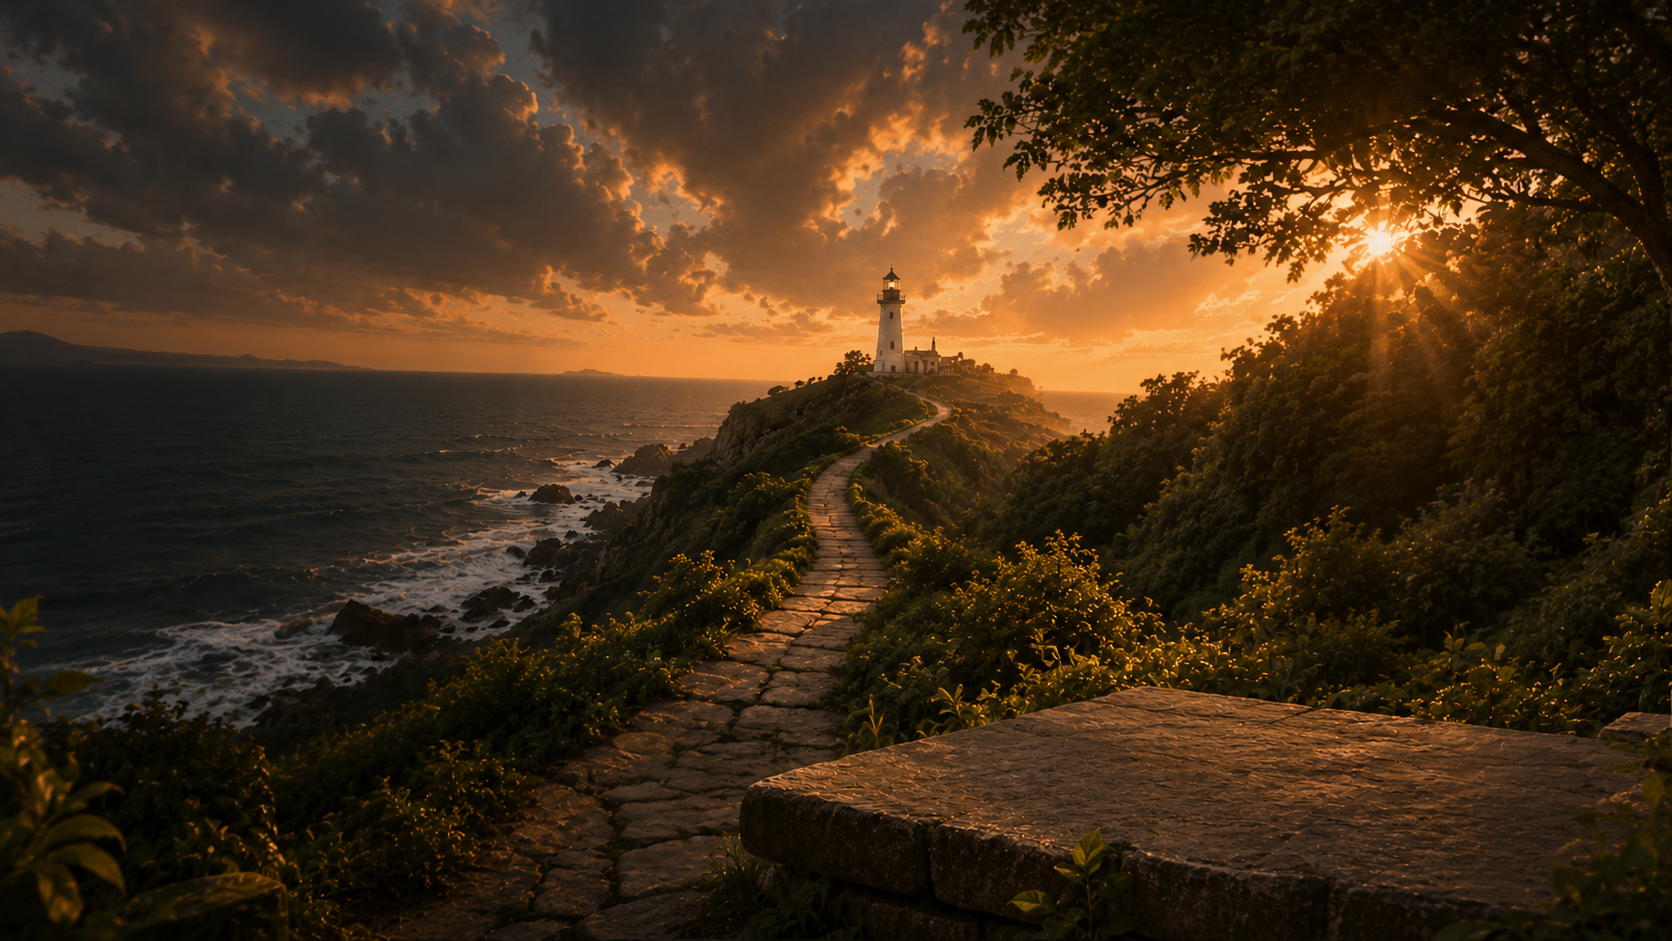
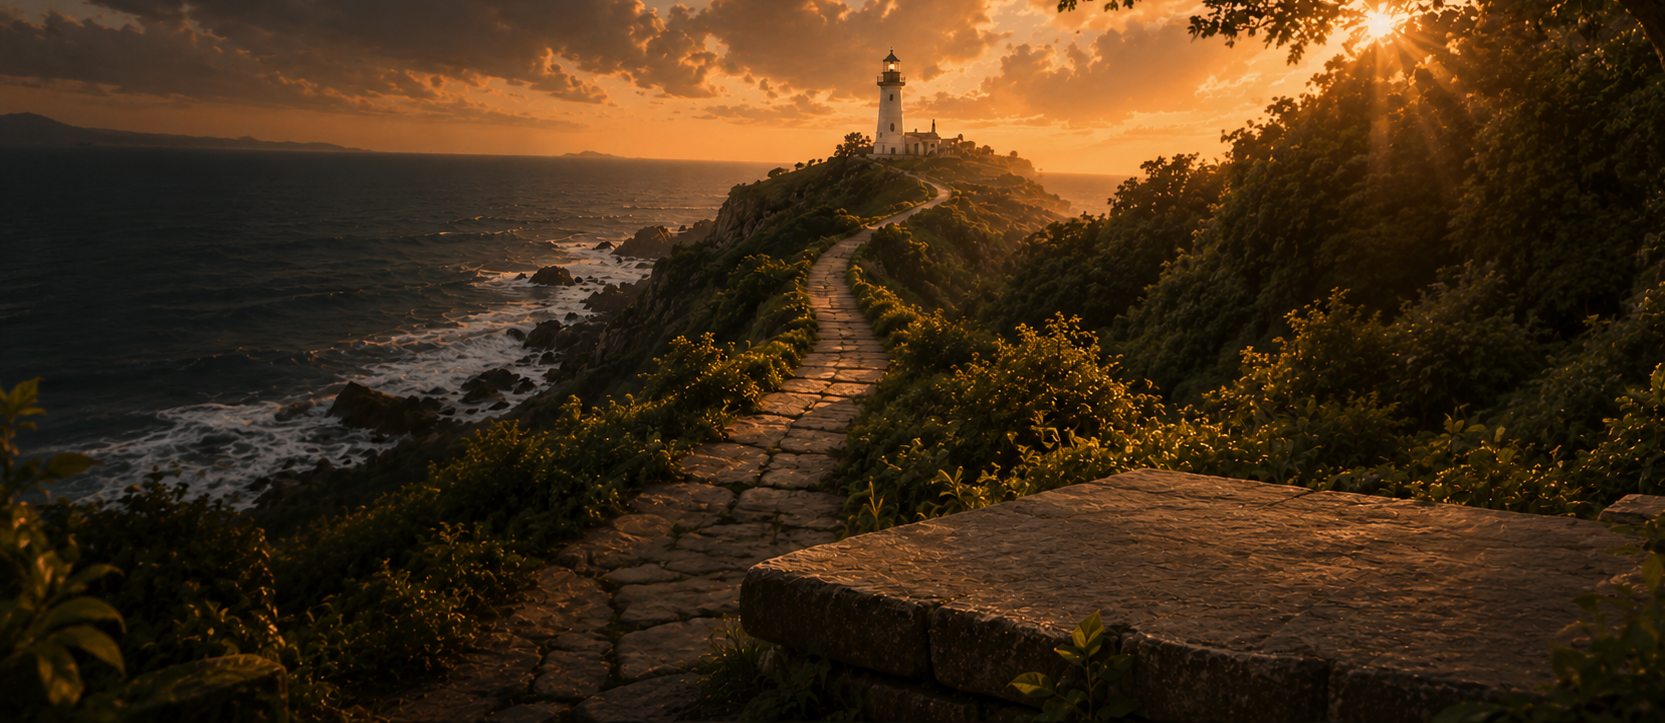
hello

diff --git a/src/components/Hero.tsx b/src/components/Hero.tsx
@@ -1,13 +1,15 @@
 import { motion, useScroll, useTransform } from 'motion/react';
-import { useRef } from 'react';
-import { ArrowRight, Shield, BookOpen, Feather, Award } from 'lucide-react';
+import React, { useRef, useState } from 'react';
+import { ArrowRight } from 'lucide-react';
 import { useTranslation } from 'react-i18next';
-import featuredImage from '../Pictures/ENGLISH/16279a37-5c09-457e-82f7-37995b9beb65.jpg';
-import backgroundImage from '../Pictures/new1.png';
+import { getBooks } from '../constants';
+import backgroundImage from '../Pictures/new.png';
 
 export default function Hero() {
-  const { t } = useTranslation();
+  const { t, i18n } = useTranslation();
+  const books = getBooks(i18n.language);
   const containerRef = useRef<HTMLDivElement>(null);
+  
   const { scrollYProgress } = useScroll({
     target: containerRef,
     offset: ["start start", "end start"]
@@ -15,15 +17,27 @@ export default function Hero() {
 
   const y1 = useTransform(scrollYProgress, [0, 1], [0, 300]);
   const y2 = useTransform(scrollYProgress, [0, 1], [0, -200]);
-  const y3 = useTransform(scrollYProgress, [0, 1], [0, 150]);
   const textY = useTransform(scrollYProgress, [0, 1], [0, 150]);
   const imgY = useTransform(scrollYProgress, [0, 1], [0, 50]);
-  const rotate = useTransform(scrollYProgress, [0, 1], [0, 20]);
   const opacity = useTransform(scrollYProgress, [0, 0.8], [1, 0]);
+
+  const [activeIndex, setActiveIndex] = useState(0);
+  const [mousePosition, setMousePosition] = useState({ x: 0, y: 0 });
+
+  const handleMouseMove = (e: React.MouseEvent) => {
+    if (!containerRef.current) return;
+    const rect = containerRef.current.getBoundingClientRect();
+    const x = (e.clientX - rect.left) / rect.width - 0.5;
+    const y = (e.clientY - rect.top) / rect.height - 0.5;
+    setMousePosition({ x, y });
+  };
+
+
 
   return (
     <section
       ref={containerRef}
+      onMouseMove={handleMouseMove}
       className="relative min-h-[90vh] flex items-center overflow-hidden bg-cream px-6 pt-20 pb-32 lg:px-20"
       style={{
         backgroundImage: `url(${backgroundImage})`,
@@ -42,15 +56,15 @@ export default function Hero() {
         className="absolute bottom-1/4 left-[5%] w-96 h-96 bg-espresso/5 rounded-full blur-3xl -z-10"
       />
 
-      <div className="grid lg:grid-cols-2 gap-12 items-center w-full max-w-7xl mx-auto">
+      <div className="grid lg:grid-cols-2 gap-12 items-center w-full max-w-7xl mx-auto z-10">
+        
+        {/* Left Side: Text and Buttons (Preserved) */}
         <motion.div
           initial={{ opacity: 0, x: -50 }}
           animate={{ opacity: 1, x: 0 }}
           transition={{ duration: 0.8, ease: "easeOut" }}
           style={{ opacity, y: textY }}
         >
-
-
           <h1 className="text-6xl lg:text-7xl font-display leading-[0.9] text-cream mb-8">
             {t('hero.titlePart1')} <br />
             <span className="italic font-light text-gold">{t('hero.titlePart2')}</span> <br />
@@ -76,9 +90,177 @@ export default function Hero() {
           </div>
         </motion.div>
 
+        {/* Right Side: 3D Book Carousel with "Stepping" Format */}
+        <motion.div 
+          className="relative h-[600px] flex items-center justify-center overflow-visible mt-[200px]"
+          style={{ y: imgY, opacity }}
+        >
+          {/* Carousel Wrapper with Perspective (Centered horizontally, High angle) */}
+          <div className="relative w-full h-full flex items-center justify-center" style={{ perspective: '1200px', perspectiveOrigin: '50% 10%', transformStyle: 'preserve-3d', transform: 'translateX(120px)' }}>
+            
+            {books.map((book, index) => {
+              // Calculate position in the cascade (0: Large, 1: Medium, 2: Small)
+              let pos = (index - activeIndex + books.length) % books.length;
+              
+              // Show 5 items in the cascade
+              const isVisible = pos < 5;
+              
+              if (!isVisible) return null;
+
+              // Values based on position to match the requested image format (decreasing size)
+              let xPos = 0;
+              let scale = 1;
+              let zPos = 0;
+              let rotateY = 0;
+              let yPos = 0;
+
+              // No baseOffset, use symmetric positions
+              // Adjusted positions for better spacing and realistic hierarchy
+              if (pos === 0) {
+                // Center book (smaller)
+                xPos = 0;
+                scale = 0.8; // smaller than side books
+                zPos = 100; // bring forward slightly
+                rotateY = 0;
+                yPos = 0;
+              } else if (pos === 1) {
+                // Right immediate side (larger)
+                xPos = 190; // adjusted spacing
+                scale = 1.0;
+                zPos = 20; // slightly behind center
+                rotateY = -20; // Rotate towards center
+                yPos = 0;
+              } else if (pos === 2) {
+                // Right far side (medium)
+                xPos = 380; // adjusted spacing
+                scale = 0.85;
+                zPos = -20;
+                rotateY = -30; // Rotate towards center
+                yPos = 0;
+              } else if (pos === 3) {
+                // Left far side (medium)
+                xPos = -380; // adjusted spacing
+                scale = 0.85;
+                zPos = -20;
+                rotateY = 30; // Rotate towards center
+                yPos = 0;
+              } else if (pos === 4) {
+                // Left immediate side (larger)
+                xPos = -190; // adjusted spacing
+                scale = 1.0;
+                zPos = 20;
+                rotateY = 20; // Rotate towards center
+                yPos = 0;
+              }
+
+              const isActive = pos === 0;
+
+              return (
+                <motion.div
+                  key={book.id}
+                  className="absolute"
+                  style={{
+                    width: '280px',
+                    height: '400px',
+                    transformStyle: 'preserve-3d',
+                    zIndex: 10 - pos, // Higher z-index for larger items on left
+                    originY: 1, // Scale from bottom to align bottoms!
+                  }}
+                  animate={{
+                    x: xPos,
+                    z: zPos,
+                    rotateY: rotateY,
+                    rotateX: 0,
+                    scale: scale,
+                    y: yPos,
+                  }}
+                  whileHover={{ scale: scale * 1.05 }}
+                  whileTap={{ scale: scale * 0.95 }}
+                  transition={{
+                    type: 'spring',
+                    stiffness: 120,
+                    damping: 20,
+                  }}
+                  onClick={() => setActiveIndex(index)}
+                >
+                  {/* Grounded Book Container (No floating) */}
+                  <div className="w-full h-full preserve-3d">
+                    <div className="relative w-full h-full preserve-3d group">
+                      
+                      {/* Front Cover (Pushed forward to show thickness) */}
+                      <div 
+                        className="absolute inset-0 w-full h-full rounded-r-md overflow-hidden bg-white shadow-2xl"
+                        style={{ 
+                          transform: 'translateZ(30px)', // 30px thickness
+                          boxShadow: isActive ? '0 30px 60px -12px rgba(0,0,0,0.4), 0 18px 36px -18px rgba(0,0,0,0.5)' : '0 15px 30px -5px rgba(0,0,0,0.3)',
+                        }}
+                      >
+                        <img src={book.image} alt={book.title} className="w-full h-full object-cover" />
+                        
+                        {/* Glossy Reflection */}
+                        <div className="absolute inset-0 bg-gradient-to-tr from-transparent via-white/10 to-transparent mix-blend-overlay" />
+                        
+                        {/* Spine Joint/Groove for Realistic Hardcover Look */}
+                        <div className="absolute top-0 bottom-0 left-[12px] w-[1px] bg-black/30" />
+                        <div className="absolute top-0 bottom-0 left-[13px] w-[1px] bg-white/10" />
+                      </div>
+                      
+                      {/* Spine (Left side, connecting front to back) */}
+                      <div 
+                        className="absolute top-0 bottom-0 left-0 w-[30px] bg-gradient-to-r from-[#2A2118] to-[#1A1410] origin-left"
+                        style={{ 
+                          transform: 'translateZ(30px) rotateY(-90deg)',
+                          borderLeft: '1px solid rgba(255,255,255,0.1)',
+                        }}
+                      >
+                        <div className="absolute inset-0 bg-gradient-to-b from-white/5 to-transparent" />
+                      </div>
+                      
+                      {/* Pages (Right side, connecting front to back) */}
+                      <div 
+                        className="absolute top-[4px] bottom-[4px] right-0 w-[30px] bg-[#e8e6df] origin-right"
+                        style={{ 
+                          transform: 'translateZ(30px) rotateY(90deg)',
+                          backgroundImage: 'repeating-linear-gradient(90deg, #d8d6cf, #d8d6cf 1px, #e8e6df 1px, #e8e6df 3px)',
+                        }}
+                      >
+                        {/* Shadow from overhang */}
+                        <div className="absolute inset-0 bg-gradient-to-l from-black/30 via-transparent to-transparent" />
+                      </div>
+                      
+                      {/* Top Edge (Connecting front to back) */}
+                      <div 
+                        className="absolute top-0 left-[4px] right-[4px] h-[30px] bg-[#e8e6df] origin-top"
+                        style={{ 
+                          transform: 'translateZ(30px) rotateX(90deg)',
+                          backgroundImage: 'repeating-linear-gradient(0deg, #d8d6cf, #d8d6cf 1px, #e8e6df 1px, #e8e6df 3px)',
+                        }}
+                      >
+                        {/* Shadow from overhang */}
+                        <div className="absolute inset-0 bg-gradient-to-b from-black/40 via-transparent to-transparent" />
+                      </div>
+                      
+
+                      
+                      {/* Subtle drop shadow beneath each book */}
+                      <div 
+                        className="absolute bottom-[-5px] left-0 right-0 h-8 bg-black/30 blur-md rounded-full pointer-events-none"
+                        style={{
+                          transform: 'translateY(8px)',
+                          opacity: isActive ? 0.7 : 0.4,
+                        }}
+                      />
+                    </div>
+                    </div>
+                </motion.div>
+              );
+            })}
+          </div>
+
+
+        </motion.div>
 
       </div>
-
 
     </section>
   );

diff --git a/src/App.tsx b/src/App.tsx
@@ -18,65 +18,65 @@ export default function App() {
       <CartProvider>
         <FavoritesProvider>
           <div className="flex flex-col min-h-screen">
-        <Navbar />
-        
-        <main className="flex-grow">
-          <Hero />
-          
-          {/* Quote Tape */}
-          <div className="bg-gold py-3 overflow-hidden whitespace-nowrap border-y border-espresso/10">
-            <motion.div 
-              animate={{ x: [0, -1000] }}
-              transition={{ duration: 30, repeat: Infinity, ease: "linear" }}
-              className="flex items-center gap-20"
-            >
-              {[...Array(10)].map((_, i) => (
-                <span key={i} className="text-[10px] font-bold text-espresso uppercase tracking-[0.4em]">
-                  New Arrivals • Limited Editions • Rare Finds • Vintage Literary Journals • Curated Collections
-                </span>
-              ))}
-            </motion.div>
-          </div>
+            <Navbar />
 
-          <BestSellers />
-          <ParallaxStory />
-          <AuthorSpotlight />
-          
-          {/* Newsletter Section */}
-          <section className="py-24 px-6 lg:px-20 bg-paper">
-            <motion.div 
-              initial={{ opacity: 0, y: 20 }}
-              whileInView={{ opacity: 1, y: 0 }}
-              viewport={{ once: true }}
-              className="max-w-4xl mx-auto bg-espresso p-12 lg:p-20 text-center relative overflow-hidden"
-            >
-              <div className="absolute top-0 left-0 w-full h-[1px] bg-gold/30" />
-              <div className="absolute bottom-0 left-0 w-full h-[1px] bg-gold/30" />
-              
-              <h2 className="text-4xl lg:text-6xl text-cream mb-6">{t('newsletter.title')} <span className="italic text-gold italic">{t('newsletter.titleAccent')}</span></h2>
-              <p className="text-beige/60 mb-10 text-lg font-serif italic max-w-xl mx-auto">
-                {t('newsletter.subtitle')}
-              </p>
-              
-              <div className="flex flex-col sm:flex-row gap-4 max-w-lg mx-auto">
-                <input 
-                  type="email" 
-                  placeholder={t('newsletter.placeholder')}
-                  className="bg-beige/5 border border-beige/20 text-cream px-6 py-4 outline-none focus:border-gold transition-colors w-full"
-                />
-                <button className="px-10 py-4 bg-gold text-espresso font-bold uppercase tracking-widest text-xs hover:bg-gold/90 transition-colors">
-                  {t('newsletter.button')}
-                </button>
+            <main className="flex-grow">
+              <Hero />
+
+              {/* Quote Tape */}
+              <div className="bg-gold py-3 overflow-hidden whitespace-nowrap border-y border-espresso/10">
+                <motion.div
+                  animate={{ x: [0, -1000] }}
+                  transition={{ duration: 30, repeat: Infinity, ease: "linear" }}
+                  className="flex items-center gap-20"
+                >
+                  {[...Array(10)].map((_, i) => (
+                    <span key={i} className="text-[10px] font-bold text-espresso uppercase tracking-[0.4em]">
+                      New Arrivals • Limited Editions • Rare Finds • Vintage Literary Journals • Curated Collections
+                    </span>
+                  ))}
+                </motion.div>
               </div>
-              
-              <p className="text-[10px] text-beige/30 uppercase tracking-widest mt-8">
-                By subscribing, you agree to our privacy policy.
-              </p>
-            </motion.div>
-          </section>
-        </main>
 
-        <Footer />
+              <BestSellers />
+              <ParallaxStory />
+              <AuthorSpotlight />
+
+              {/* Newsletter Section */}
+              <section className="py-24 px-6 lg:px-20 bg-paper">
+                <motion.div
+                  initial={{ opacity: 0, y: 20 }}
+                  whileInView={{ opacity: 1, y: 0 }}
+                  viewport={{ once: true }}
+                  className="max-w-4xl mx-auto bg-espresso p-12 lg:p-20 text-center relative overflow-hidden"
+                >
+                  <div className="absolute top-0 left-0 w-full h-[1px] bg-gold/30" />
+                  <div className="absolute bottom-0 left-0 w-full h-[1px] bg-gold/30" />
+
+                  <h2 className="text-4xl lg:text-6xl text-cream mb-6">{t('newsletter.title')} <span className="italic text-gold italic">{t('newsletter.titleAccent')}</span></h2>
+                  <p className="text-beige/60 mb-10 text-lg font-serif italic max-w-xl mx-auto">
+                    {t('newsletter.subtitle')}
+                  </p>
+
+                  <div className="flex flex-col sm:flex-row gap-4 max-w-lg mx-auto">
+                    <input
+                      type="email"
+                      placeholder={t('newsletter.placeholder')}
+                      className="bg-beige/5 border border-beige/20 text-cream px-6 py-4 outline-none focus:border-gold transition-colors w-full"
+                    />
+                    <button className="px-10 py-4 bg-gold text-espresso font-bold uppercase tracking-widest text-xs hover:bg-gold/90 transition-colors">
+                      {t('newsletter.button')}
+                    </button>
+                  </div>
+
+                  <p className="text-[10px] text-beige/30 uppercase tracking-widest mt-8">
+                    By subscribing, you agree to our privacy policy.
+                  </p>
+                </motion.div>
+              </section>
+            </main>
+
+            <Footer />
 
           </div>
         </FavoritesProvider>
